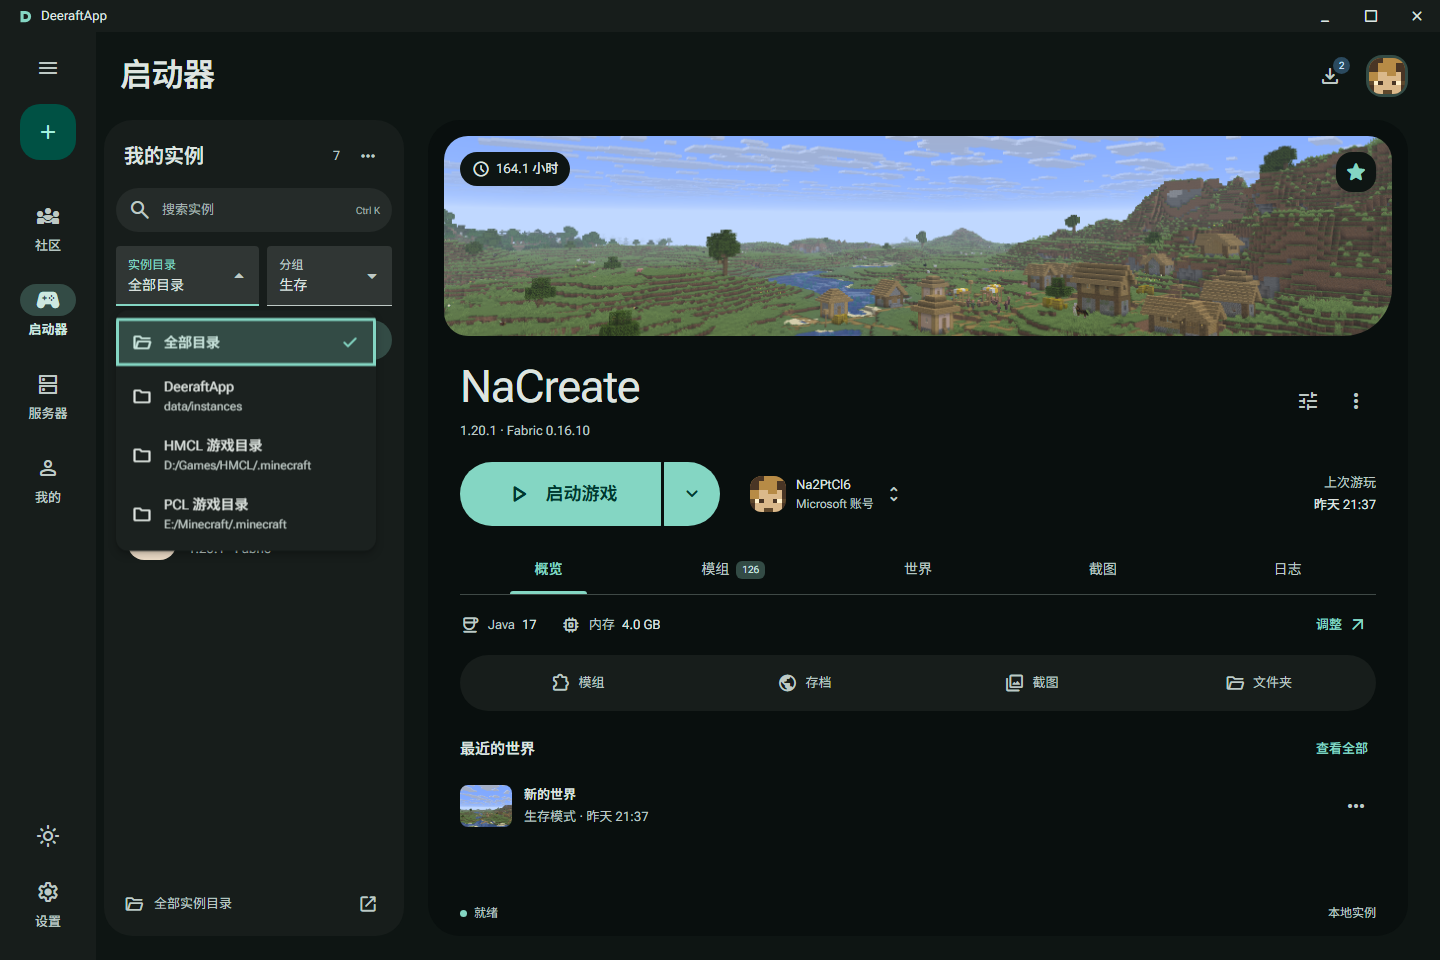
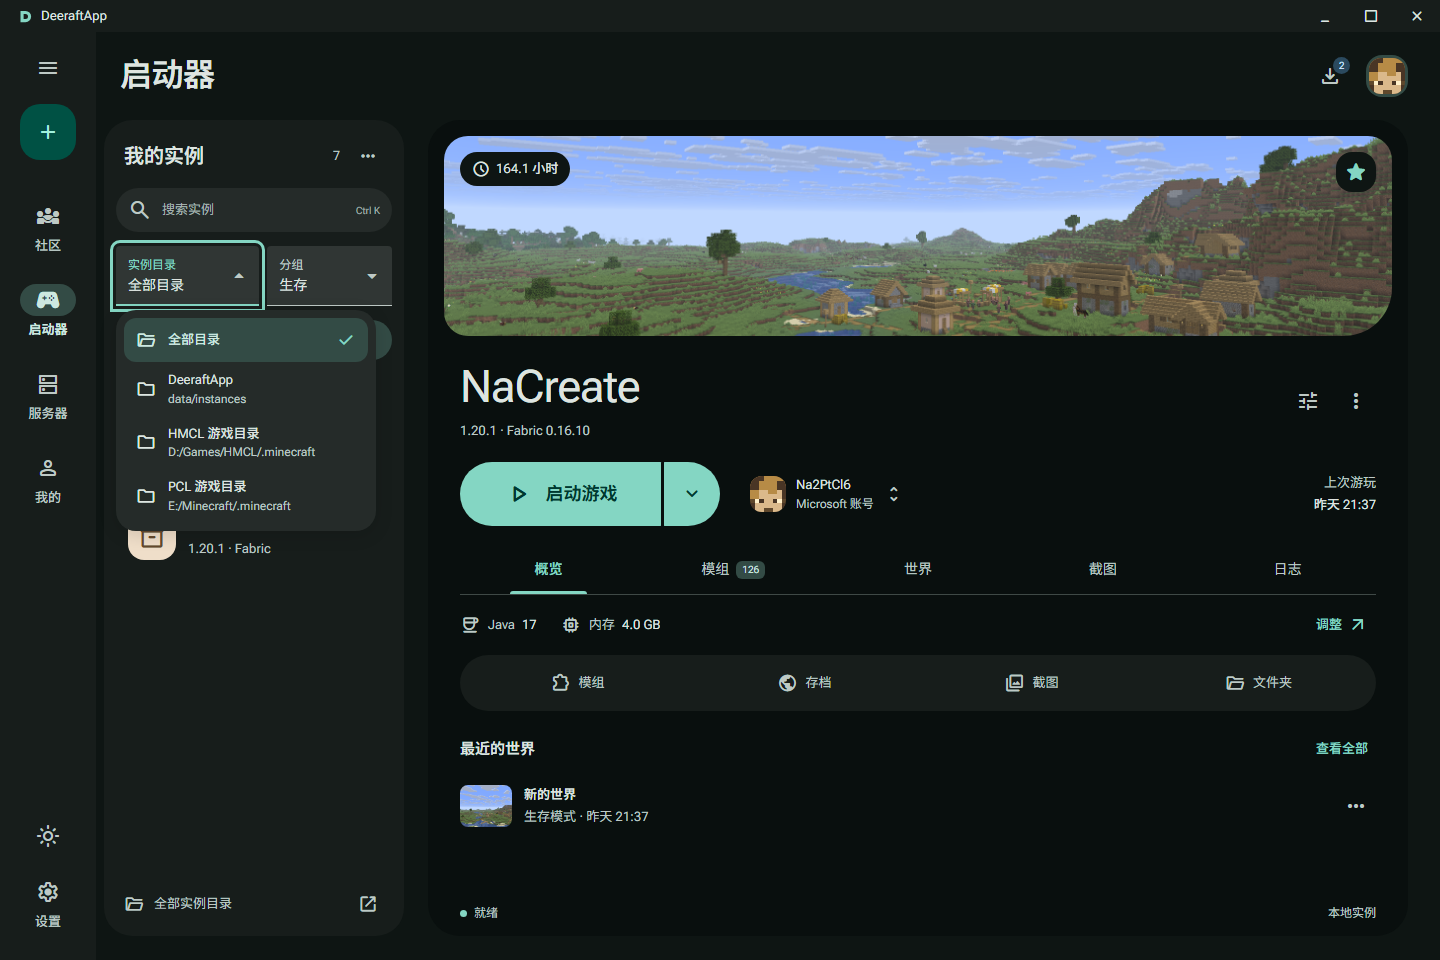
fix(design): align static selector menus and correct popup stacking

Changed region(s): [[0.0625, 0.3125, 0.2812, 0.5938], [0.1562, 0.25, 0.1875, 0.2812], [0.0625, 0.25, 0.0938, 0.2812]]

diff --git a/Desktop/design/m3-expressive/index.html b/Desktop/design/m3-expressive/index.html
@@ -50,13 +50,13 @@
         <div class="page-stage" id="page-stage">
           <section class="page launcher-layout" x-show="page==='launcher'" aria-label="启动器">
             <aside class="instance-library">
-              <div class="section-heading"><h2>我的实例</h2><span class="count" x-text="instances.length"></span><button class="icon-button small" aria-label="导入或关联目录" @click="libraryMenu=!libraryMenu"><span class="mi">more_horiz</span></button></div>
+              <div class="section-heading"><h2>我的实例</h2><span class="count" x-text="instances.length"></span><button class="icon-button small" aria-label="导入或关联目录" @click.stop="libraryMenu=!libraryMenu"><span class="mi">more_horiz</span></button></div>
               <label class="global-search library-search"><span class="mi">search</span><input type="search" placeholder="搜索实例" aria-label="搜索实例" x-model="search"><kbd>Ctrl K</kbd></label>
-              <div class="library-selectors"><div class="m3-select" x-data="materialSelect(() => [{value:'all',label:'全部目录',icon:'folder_open'},...sources.map(s=>({value:s.id,label:s.name,detail:s.path,icon:'folder'}))])" x-modelable="value" x-model="sourceFilter" @click.outside="close(false)" @keydown.escape.stop.prevent="close(true)" @keydown.tab="close(false)">
+              <div class="library-selectors"><div class="m3-select" @select-open.window="if($event.detail.id!==menuId) close(false)" x-data="materialSelect(() => [{value:'all',label:'全部目录',icon:'folder_open'},...sources.map(s=>({value:s.id,label:s.name,detail:s.path,icon:'folder'}))])" x-modelable="value" x-model="sourceFilter" @click.outside="close(false)" @keydown.escape.stop.prevent="close(true)" @keydown.tab="close(false)">
       <button type="button" class="m3-select-trigger" x-ref="trigger" role="combobox" aria-label="实例目录" aria-haspopup="listbox" :aria-expanded="open" :aria-controls="menuId" @click="toggle()" @keydown.enter.stop.prevent="toggle()" @keydown.space.stop.prevent="toggle()" @keydown.arrow-down.prevent="focusOption(1)" @keydown.arrow-up.prevent="focusOption(-1)" @keydown.home.prevent="focusOption('first')" @keydown.end.prevent="focusOption('last')"><span class="m3-select-label">实例目录</span><span class="m3-select-value" x-text="selectedLabel"></span><span class="mi m3-select-chevron" :class="{rotated:open}">arrow_drop_down</span></button>
-      <div class="m3-select-menu" x-ref="menu" role="listbox" :id="menuId" aria-label="实例目录选项" :aria-hidden="!open" :inert="!open" @keydown.arrow-down.prevent="move(1)" @keydown.arrow-up.prevent="move(-1)" @keydown.home.prevent="move('first')" @keydown.end.prevent="move('last')" @keydown.enter.stop.prevent="choose(active)" @keydown.space.stop.prevent="choose(active)" @keydown="typeahead($event)"><template x-for="option in options()" :key="option.value"><button type="button" role="option" :aria-selected="value===option.value" :tabindex="active===option.value?0:-1" :data-value="option.value" @click="choose(option.value)" @focus="active=option.value"><span class="mi" x-text="option.icon"></span><span class="m3-option-copy"><strong x-text="option.label"></strong><small x-show="option.detail" x-text="option.detail"></small></span><span class="mi m3-option-check" x-show="value===option.value">check</span></button></template></div></div><div class="m3-select" x-data="materialSelect(() => [{value:'all',label:'全部分组',icon:'workspaces'},...['整合包','多人游戏','生存'].map(g=>({value:g,label:g,icon:'folder_copy'}))])" x-modelable="value" x-model="groupFilter" @click.outside="close(false)" @keydown.escape.stop.prevent="close(true)" @keydown.tab="close(false)">
+      <div class="m3-select-menu context-menu" x-show="open" x-cloak x-ref="menu" role="listbox" :id="menuId" aria-label="实例目录选项" :aria-hidden="!open" :inert="!open" @keydown.arrow-down.prevent="move(1)" @keydown.arrow-up.prevent="move(-1)" @keydown.home.prevent="move('first')" @keydown.end.prevent="move('last')" @keydown.enter.stop.prevent="choose(active)" @keydown.space.stop.prevent="choose(active)" @keydown="typeahead($event)"><template x-for="option in options()" :key="option.value"><button type="button" role="option" :aria-selected="value===option.value" :tabindex="active===option.value?0:-1" :data-value="option.value" @click="choose(option.value)" @focus="active=option.value"><span class="mi" x-text="option.icon"></span><span class="m3-option-copy"><strong x-text="option.label"></strong><small x-show="option.detail" x-text="option.detail"></small></span><span class="mi m3-option-check" x-show="value===option.value">check</span></button></template></div></div><div class="m3-select" @select-open.window="if($event.detail.id!==menuId) close(false)" x-data="materialSelect(() => [{value:'all',label:'全部分组',icon:'workspaces'},...['整合包','多人游戏','生存'].map(g=>({value:g,label:g,icon:'folder_copy'}))])" x-modelable="value" x-model="groupFilter" @click.outside="close(false)" @keydown.escape.stop.prevent="close(true)" @keydown.tab="close(false)">
       <button type="button" class="m3-select-trigger" x-ref="trigger" role="combobox" aria-label="实例分组" aria-haspopup="listbox" :aria-expanded="open" :aria-controls="menuId" @click="toggle()" @keydown.enter.stop.prevent="toggle()" @keydown.space.stop.prevent="toggle()" @keydown.arrow-down.prevent="focusOption(1)" @keydown.arrow-up.prevent="focusOption(-1)" @keydown.home.prevent="focusOption('first')" @keydown.end.prevent="focusOption('last')"><span class="m3-select-label">分组</span><span class="m3-select-value" x-text="selectedLabel"></span><span class="mi m3-select-chevron" :class="{rotated:open}">arrow_drop_down</span></button>
-      <div class="m3-select-menu" x-ref="menu" role="listbox" :id="menuId" aria-label="实例分组选项" :aria-hidden="!open" :inert="!open" @keydown.arrow-down.prevent="move(1)" @keydown.arrow-up.prevent="move(-1)" @keydown.home.prevent="move('first')" @keydown.end.prevent="move('last')" @keydown.enter.stop.prevent="choose(active)" @keydown.space.stop.prevent="choose(active)" @keydown="typeahead($event)"><template x-for="option in options()" :key="option.value"><button type="button" role="option" :aria-selected="value===option.value" :tabindex="active===option.value?0:-1" :data-value="option.value" @click="choose(option.value)" @focus="active=option.value"><span class="mi" x-text="option.icon"></span><span class="m3-option-copy"><strong x-text="option.label"></strong><small x-show="option.detail" x-text="option.detail"></small></span><span class="mi m3-option-check" x-show="value===option.value">check</span></button></template></div></div></div>
+      <div class="m3-select-menu context-menu" x-show="open" x-cloak x-ref="menu" role="listbox" :id="menuId" aria-label="实例分组选项" :aria-hidden="!open" :inert="!open" @keydown.arrow-down.prevent="move(1)" @keydown.arrow-up.prevent="move(-1)" @keydown.home.prevent="move('first')" @keydown.end.prevent="move('last')" @keydown.enter.stop.prevent="choose(active)" @keydown.space.stop.prevent="choose(active)" @keydown="typeahead($event)"><template x-for="option in options()" :key="option.value"><button type="button" role="option" :aria-selected="value===option.value" :tabindex="active===option.value?0:-1" :data-value="option.value" @click="choose(option.value)" @focus="active=option.value"><span class="mi" x-text="option.icon"></span><span class="m3-option-copy"><strong x-text="option.label"></strong><small x-show="option.detail" x-text="option.detail"></small></span><span class="mi m3-option-check" x-show="value===option.value">check</span></button></template></div></div></div>
               <div class="connected-group library-filter" role="group" aria-label="实例筛选">
                 <template x-for="filter in ['全部','收藏','已关联']"><button :class="{active:instanceFilter===filter}" @click="instanceFilter=filter"><span class="mi" x-show="instanceFilter===filter">check</span><span x-text="filter"></span></button></template>
               </div>

diff --git a/Desktop/design/m3-expressive/refinements.css b/Desktop/design/m3-expressive/refinements.css
@@ -1,22 +1,22 @@
 /* Material 3 filled select + listbox, server status, and spring-driven details. */
 .library-selectors{position:relative;z-index:12;flex-shrink:0}
 .m3-select{position:relative;min-width:0}
-.m3-select-trigger{position:relative;width:100%;min-height:60px;text-align:left;padding:8px 32px 8px 12px;background:var(--surface-container-highest);border-radius:4px 4px 0 0;border-bottom:1px solid var(--on-surface-variant);display:flex;flex-direction:column;justify-content:center;overflow:hidden;transition:background-color 150ms var(--effects),border-color 150ms var(--effects)}
+.m3-select-trigger{position:relative;width:100%;min-height:60px;text-align:left;padding:8px 32px 8px 12px;background:var(--surface-container-highest);border-radius:4px 4px 0 0;border-bottom:1px solid var(--on-surface-variant);display:flex;flex-direction:column;justify-content:center;overflow:hidden;transition:none}
 .m3-select-trigger:hover{background:color-mix(in srgb,var(--on-surface) 8%,var(--surface-container-highest))}
 .m3-select-trigger[aria-expanded=true]{border-bottom:2px solid var(--primary);padding-bottom:7px}
 .m3-select-trigger[aria-expanded=true] .m3-select-label{color:var(--primary)}
 .m3-select-label{font-size:12px;line-height:18px;color:var(--on-surface-variant);white-space:nowrap}
 .m3-select-value{font-size:14px;line-height:22px;color:var(--on-surface);white-space:nowrap;max-width:100%;overflow:hidden;text-overflow:ellipsis}
-.m3-select-chevron{position:absolute;right:8px;top:18px;font-size:24px;color:var(--on-surface-variant);transition:rotate 350ms var(--spatial-fast)}
+.m3-select-chevron{position:absolute;right:8px;top:18px;font-size:24px;color:var(--on-surface-variant);transition:none}
 .m3-select-chevron.rotated{rotate:180deg}
-.m3-select-menu{position:absolute;left:0;top:calc(100% + 4px);width:max(100%,260px);max-width:min(360px,calc(100vw - 110px));max-height:320px;overflow-y:auto;padding:8px 0;border-radius:12px;background:var(--surface-container);color:var(--on-surface);box-shadow:0 4px 8px #0003,0 1px 3px #0002;opacity:0;visibility:hidden;z-index:100;transform-origin:top left;will-change:transform,clip-path,opacity}
+.m3-select-menu{position:absolute;left:0;top:calc(100% + 4px);width:max(100%,260px);max-width:min(360px,calc(100vw - 110px));max-height:320px;overflow-y:auto;padding:8px;border-radius:20px;background:var(--surface-container-high);color:var(--on-surface);box-shadow:0 4px 18px #0002;z-index:20;transition:none;animation:none}
 .m3-select:nth-child(2) .m3-select-menu{left:auto;right:0;min-width:200px;width:200px}
-.m3-select-menu button{width:100%;min-height:48px;display:flex;align-items:center;gap:12px;text-align:left;padding:10px 16px;position:relative;border-radius:0;outline-offset:-3px}
-.m3-select-menu button:hover,.m3-select-menu button:focus-visible{background:color-mix(in srgb,var(--on-surface) 8%,var(--surface-container))}
+.m3-select-menu button{width:100%;min-height:44px;display:flex;align-items:center;gap:12px;text-align:left;padding:8px 12px;position:relative;border-radius:12px;outline-offset:-3px}
+.m3-select-menu button:hover,.m3-select-menu button:focus-visible{background:color-mix(in srgb,var(--on-surface) 8%,transparent)}
 .m3-select-menu button[aria-selected=true]{background:var(--secondary-container);color:var(--on-secondary-container)}
 .m3-select-menu button>.mi{font-size:20px}
 .m3-option-copy{flex:1;min-width:0;display:flex;flex-direction:column}
-.m3-option-copy strong{font-size:14px;font-weight:500}
+.m3-option-copy strong{font-size:13px;font-weight:500}
 .m3-option-copy small{font-size:12px;color:var(--on-surface-variant);text-overflow:ellipsis;white-space:nowrap;overflow:hidden;max-width:260px}
 .m3-option-check{color:var(--primary)}
 .third-party-row{gap:12px;padding:20px 0}
@@ -38,3 +38,6 @@
 .detail-tabs button::after{display:none}
 .detail-tab-indicator{position:absolute;bottom:0;height:3px;border-radius:3px 3px 0 0;background:var(--primary);pointer-events:none}
 @media(max-width:1050px){.library-selectors{gap:8px}.m3-select-trigger{min-height:54px;padding-block:5px}.m3-select-trigger[aria-expanded=true]{padding-bottom:4px}.m3-select-chevron{top:15px}.m3-select-menu{max-height:280px}.third-party-row>.button{margin-left:auto}.third-party-facts{gap:12px}}
+
+/* Three-dot menu must cover the selector stacking context. */
+.instance-library>.library-menu{z-index:30}

diff --git a/Desktop/design/m3-expressive/material-select.js b/Desktop/design/m3-expressive/material-select.js
@@ -4,13 +4,16 @@ document.addEventListener('alpine:init', () => {
   Alpine.data('materialSelect', options => ({
     value: 'all', open: false, active: 'all', options, menuId: 'material-options-'+(++nextId), typed: '', typedTimer: 0,
     get selectedLabel() { return this.options().find(option => option.value===this.value)?.label || ''; },
+    init() { this.$watch('libraryMenu', open => { if(open)this.close(false); }); },
     toggle() { this.open ? this.close(true) : this.focusOption(0); },
     focusOption(direction) {
+      this.libraryMenu=false;
+      this.$dispatch('select-open',{id:this.menuId});
       this.$refs.trigger.focus({preventScroll:true});
       this.open=true;
       const options=this.options();
       this.active=direction==='first'?options[0].value:direction==='last'?options.at(-1).value:this.value;
-      this.$nextTick(() => { if(this.open){DeeraftMotion.disclose(this.$refs.menu,true);this.focusActive();} });
+      this.$nextTick(() => { if(this.open){this.focusActive();} });
     },
     focusActive() { if(!this.open)return; [...this.$refs.menu.querySelectorAll('[role=option]')].find(item=>item.dataset.value===this.active)?.focus({preventScroll:true}); },
     move(direction) {
@@ -20,11 +23,9 @@ document.addEventListener('alpine:init', () => {
       this.$nextTick(() => this.focusActive());
     },
     choose(value) {
-      DeeraftMotion.captureList(document.querySelector('.instance-list'));
       this.value=value; this.close(true);
-      this.$nextTick(() => requestAnimationFrame(() => DeeraftMotion.settleList(document.querySelector('.instance-list'))));
     },
-    close(restoreFocus) { this.open=false; DeeraftMotion.disclose(this.$refs.menu,false); if(restoreFocus)this.$refs.trigger.focus({preventScroll:true}); },
+    close(restoreFocus) { this.open=false; if(restoreFocus)this.$refs.trigger.focus({preventScroll:true}); },
     typeahead(event) {
       if(event.key.length!==1 || event.ctrlKey || event.metaKey || event.altKey || event.key===' ')return;
       clearTimeout(this.typedTimer); this.typed+=event.key.toLowerCase();
